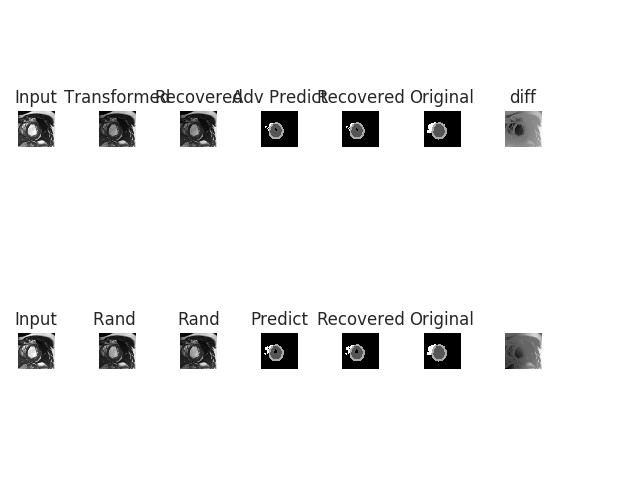
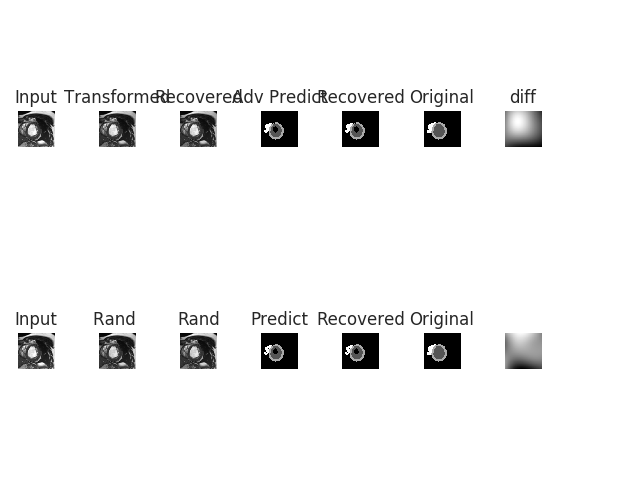
optimize the inner optimization

diff --git a/adv_bias.py b/adv_bias.py
@@ -95,7 +95,7 @@ class AdvBias(AdvTransformBase):
 
     def rescale_parameters(self,power_iteration=False):
         ## restrict control points values in the 1-ball space
-        self.param=self.unit_normalize(self.param, p_type ='l2')
+        self.param=self.unit_normalize(self.param, p_type ='l2')*self.epsilon
     
     def optimize_parameters(self,power_iteration=False, step_size=1):
         if self.debug: print ('optimize bias')
@@ -121,7 +121,8 @@ class AdvBias(AdvTransformBase):
         assert self.param is not None, 'init param before transform data'
         
         bias_field = self.compute_smoothed_bias(self.param)    
-        bias_field = self.rescale_bias(bias_field,magnitude=self.epsilon)
+        # disable it in new version, where the magnitude is purely controlled by the cpoints themselves
+        # bias_field = self.rescale_bias(bias_field,magnitude=self.epsilon)
         self.bias_field =bias_field
         self.diff=bias_field
 
@@ -192,7 +193,7 @@ https://github.com/airlab-unibas/airlab/blob/1a715766e17c812803624d95196092291fa
         else:
             raise  NotImplementedError
         
-        self.param = self.unit_normalize(self.param, p_type ='l2')
+        self.param = self.unit_normalize(self.param, p_type ='l2')*self.epsilon
         self.param = self.param.to(dtype=self._dtype, device=self._device)
 
         # convert to integer
@@ -205,7 +206,7 @@ https://github.com/airlab-unibas/airlab/blob/1a715766e17c812803624d95196092291fa
         self.interp_kernel=self.get_bspline_kernel(order=self.order, spacing=self.spacing)
         self.interp_kernel=self.interp_kernel.to(self.param.device)
         self.bias_field = self.compute_smoothed_bias(self.param,padding=self._padding,stride=self._stride)
-        self.bias_field = self.rescale_bias(self.bias_field)        
+        # self.bias_field = self.rescale_bias(self.bias_field)        
         if self.debug:
             print('initialize {} control points'.format(str(self.param.size())))
       
@@ -234,10 +235,12 @@ https://github.com/airlab-unibas/airlab/blob/1a715766e17c812803624d95196092291fa
 
         ## recover bias field to original image resolution for efficiency.
         if self.debug: print ('after intep, size:',bias_field_tmp.size())
-        scale_factor = self._image_size[0] / bias_field_tmp.size(2)
-        if scale_factor>1:
-            upsampler = torch.nn.Upsample(scale_factor=scale_factor, mode='bilinear',
-                                            align_corners=True)
+        scale_factor_h = self._image_size[0] / bias_field_tmp.size(2)
+        scale_factor_w = self._image_size[0] / bias_field_tmp.size(2)
+
+        if scale_factor_h>1 or scale_factor_w>1:
+            upsampler = torch.nn.Upsample(scale_factor=(scale_factor_h,scale_factor_w), mode='bilinear',
+                                            align_corners=False)
             diff_bias = upsampler(bias_field_tmp)
         else:
             diff_bias=bias_field_tmp
@@ -249,25 +252,25 @@ https://github.com/airlab-unibas/airlab/blob/1a715766e17c812803624d95196092291fa
 
 
 
-    def rescale_bias(self,bias_field,magnitude=None):
-        """[summary]
-        rescale the bias field so that it values fall in [1-magnitude, 1+magnitude]
-        Args:
-            bias_field ([torch 4d tensor]): [description]
-            magnitude ([scalar], optional): [description]. Defaults to use predefined value.
+    # def rescale_bias(self,bias_field,magnitude=None):
+    #     """[summary]
+    #     rescale the bias field so that it values fall in [1-magnitude, 1+magnitude]
+    #     Args:
+    #         bias_field ([torch 4d tensor]): [description]
+    #         magnitude ([scalar], optional): [description]. Defaults to use predefined value.
 
-        Returns:
-            [type]: [description]
-        """
-        if magnitude is None:
-            magnitude=self.magnitude
-        assert magnitude>0
+    #     Returns:
+    #         [type]: [description]
+    #     """
+    #     if magnitude is None:
+    #         magnitude=self.magnitude
+    #     assert magnitude>0
 
-        bias_field =rescale_intensity(bias_field,1-magnitude,1+magnitude)
+    #     bias_field =rescale_intensity(bias_field,1-magnitude,1+magnitude)
 
-        if self.debug:
-            print('L_infinity: max|bias-id|', torch.max(torch.abs(bias_field-1)))
-        return bias_field
+    #     if self.debug:
+    #         print('L_infinity: max|bias-id|', torch.max(torch.abs(bias_field-1)))
+    #     return bias_field
 
 
     def get_bspline_kernel(self,spacing, order=3):
@@ -295,9 +298,7 @@ if __name__ == "__main__":
     log_dir = "./result/log/debug/"
     check_dir(log_dir, create=True)
     images = torch.ones(2,1,128,128).cuda()
-    images[:,:,::2,::2]=2.0
-    images[:,:,::3,::3]=3.0
-    images[:,:,::1,::1]=1.0
+    images[:,:,20:120,20:120]=128.0
     images=images.float()
     images.requires_grad=False
     print ('input:',images)
@@ -315,7 +316,7 @@ if __name__ == "__main__":
     
     plt.subplot(133)
     plt.imshow((transformed/images).detach().cpu().numpy()[0,0])
-    plt.savefig('test_bias.png')
+    plt.savefig(log_dir+'test_bias.png')
 
 
 

diff --git a/adv_compose_solver.py b/adv_compose_solver.py
@@ -3,7 +3,7 @@ import torch
 import torch.nn.functional as F
 
 from loss import calc_segmentation_consistency
-from utils import rescale_intensity
+from utils import rescale_intensity,_disable_tracking_bn_stats
 
 class ComposeAdversarialTransformSolver(object):
     """
@@ -27,7 +27,7 @@ class ComposeAdversarialTransformSolver(object):
         self.divergence_types=divergence_types
         self.require_bi_loss = self.if_contains_geo_transform()
         self.disable_adv_noise=disable_adv_noise
-        self.if_norm_image = if_norm_image
+        self.if_norm_image = if_norm_image ## we found disabling it towards better performance.
         ## change to your own image normalization functions,by default, rescale images to 0,1 
 
         self.norm_image_fn=rescale_intensity
@@ -152,7 +152,8 @@ class ComposeAdversarialTransformSolver(object):
         model.train()
         model.zero_grad()
         with torch.enable_grad():
-            adv_output = model(adv_data)
+            with _disable_tracking_bn_stats(model):
+                adv_output = model(adv_data)
        
         ## calc divergence loss in bi-directional fashion when geometric transformation is involved
         if self.if_contains_geo_transform(chain_of_transforms):
@@ -436,7 +437,7 @@ if __name__ == "__main__":
     augmentor_bias= AdvBias(
                  config_dict={'epsilon':0.3,
                  'xi':0.1,
-                 'control_point_spacing':[28,28],
+                 'control_point_spacing':[32,32],
                  'downscale':2,
                  'data_size':image_size,
                  'interpolation_order':3,

diff --git a/utils.py b/utils.py
@@ -1,5 +1,6 @@
 import os
 import torch
+import contextlib
 
 def rescale_intensity(data,new_min=0,new_max=1,eps=1e-20):
     '''
@@ -11,7 +12,7 @@ def rescale_intensity(data,new_min=0,new_max=1,eps=1e-20):
     data = data.view(bs*c, -1)
     old_max = torch.max(data, dim=1, keepdim=True).values
     old_min = torch.min(data, dim=1, keepdim=True).values
-    new_data = (data - old_min+eps) / (old_max - old_min + eps)*(new_max-new_min)+new_min
+    new_data = (data - old_min) / (old_max - old_min + eps)*(new_max-new_min)+new_min
     new_data = new_data.view(bs, c, h, w)
     return new_data
 
@@ -30,3 +31,15 @@ def check_dir(dir_path, create=False):
         if create:
             os.makedirs(dir_path)
         return -1
+
+
+
+@contextlib.contextmanager
+def _disable_tracking_bn_stats(model):
+    def switch_attr(m):
+        if hasattr(m, 'track_running_stats'):
+            m.track_running_stats ^= True
+
+    model.apply(switch_attr)
+    yield
+    model.apply(switch_attr)
